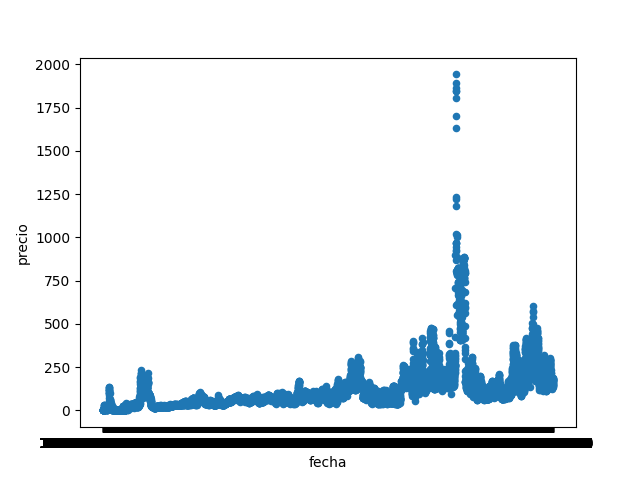
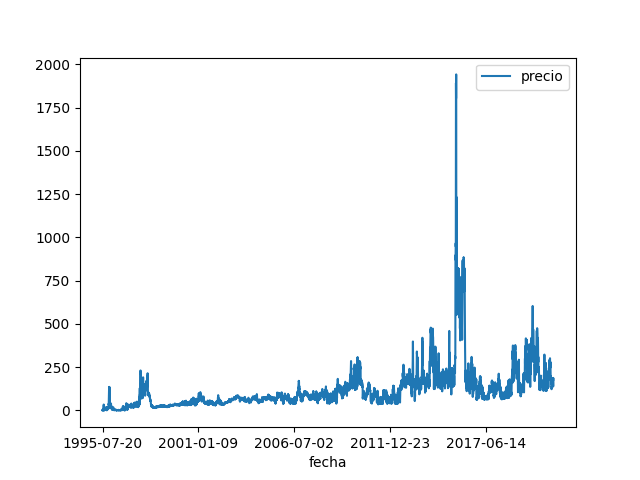
-
-

diff --git a/src/visualization/make_daily_prices_plot.py b/src/visualization/make_daily_prices_plot.py
@@ -13,8 +13,8 @@ def make_daily_prices_plot():
     from matplotlib import pyplot as plt
     
     df = pd.read_csv('data_lake/business/precios-diarios.csv')
-    daily_prices_plot = df.plot(x='fecha', y = 'precio', kind = 'line').get_figure()
-    daily_prices_plot.savefig('data_lake/business/reports/figures/daily_prices.png')
+    daily_prices_plot = df.plot(x='fecha', y = 'precio', kind = 'line').savefig('data_lake/business/reports/figures/daily_prices.png')
+    #daily_prices_plot.savefig('data_lake/business/reports/figures/daily_prices.png')
 
 
 
